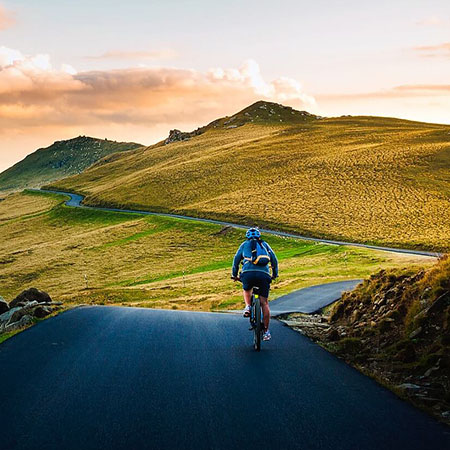
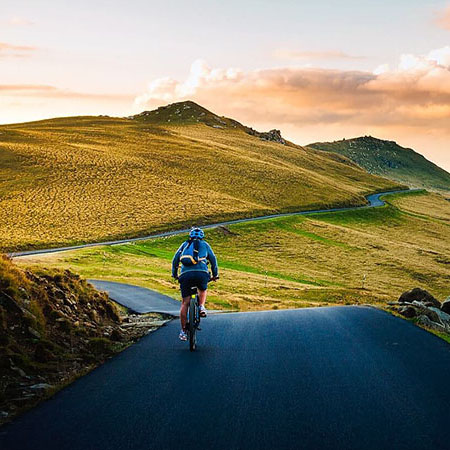
en del endringer

diff --git a/index.html b/index.html
@@ -30,20 +30,20 @@
 		</section>
 		<section class="kategorier">
 			<div class="kategori_img el">
-				<p>EL</p>
-				<img src="images/elbike.jpg" alt="elcykel">
+				<!--<p>EL</p>-->
+				<img src="images/elbike_tekst.jpg" alt="elcykel">
 			</div>
 			<div class="kategori_img trekk">
-				<p>Trekking</p>
-				<img src="images/trekking.jpg" alt="trekking">
+				<!--<p>Trekking</p>-->
+				<img src="images/trekking_tekst.jpg" alt="trekking">
 			</div>
 			<div class="kategori_img city">
-				<p>City</p>
-				<img src="images/city.jpg" alt="city">
+				<!--<p>City</p>-->
+				<img src="images/city_tekst.jpg" alt="city">
 			</div>
 			<div class="kategori_img race">
-				<p>Race</p>
-				<img src="images/race.jpg" alt="race">
+				<!--<p>Race</p>-->
+				<img src="images/race_tekst.jpg" alt="race">
 			</div>
 		</section>
 		<div class="buttons">

diff --git a/modeller.html b/modeller.html
@@ -16,20 +16,20 @@
 	<main>
 		<section class="kategorier">
 			<div class="kategori_img el">
-				<p>EL</p>
-				<img src="images/elbike.jpg" alt="elcykel">
+				<!--<p>EL</p>-->
+				<img src="images/elbike_tekst.jpg" alt="elcykel">
 			</div>
 			<div class="kategori_img trekk">
-				<p>Trekking</p>
-				<img src="images/trekking.jpg" alt="trekking">
+				<!--<p>Trekking</p>-->
+				<img src="images/trekking_tekst.jpg" alt="trekking">
 			</div>
 			<div class="kategori_img city">
-				<p>City</p>
-				<img src="images/city.jpg" alt="city">
+				<!--<p>City</p>-->
+				<img src="images/city_tekst.jpg" alt="city">
 			</div>
 			<div class="kategori_img race">
-				<p>Race</p>
-				<img src="images/race.jpg" alt="race">
+				<!--<p>Race</p>-->
+				<img src="images/race_tekst.jpg" alt="race">
 			</div>
 		</section>
 	</main>
